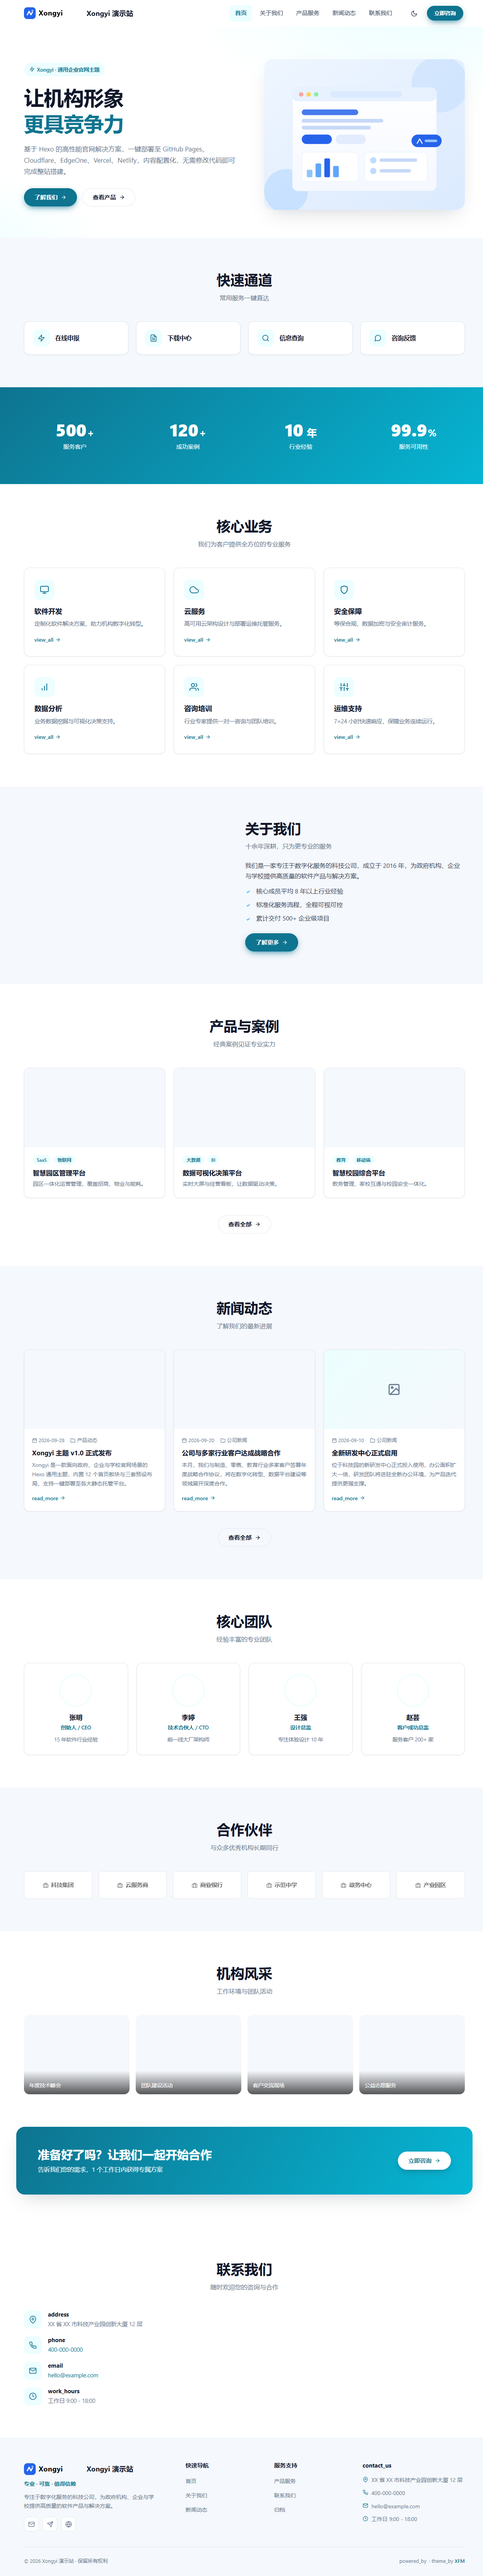
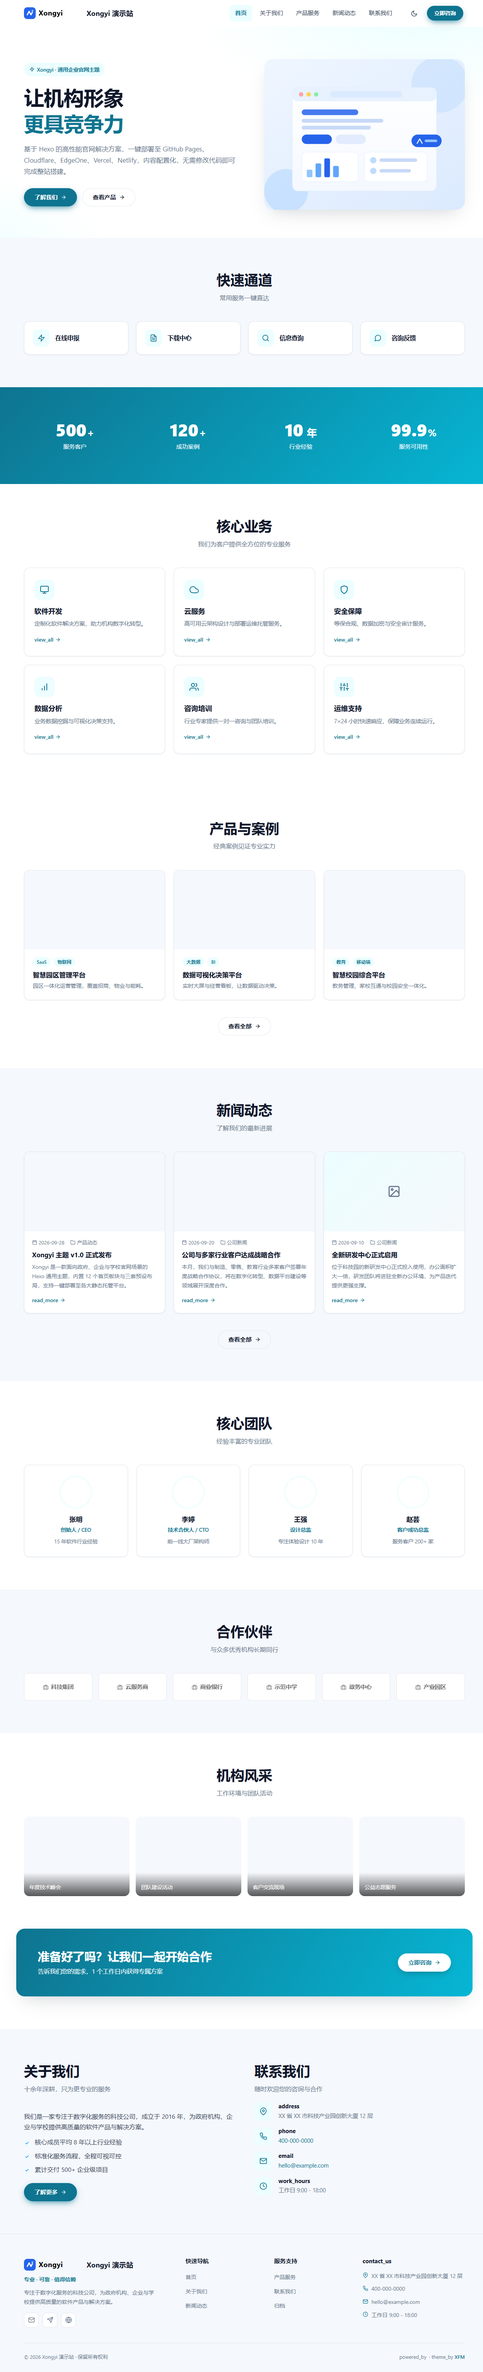
docs: 部署按钮统一形状（Vercel/Cloudflare 同 Netlify 179x32 圆角6）+ 预览图更新

diff --git a/README.md b/README.md
@@ -39,8 +39,8 @@
 | 平台 | 部署按钮 |
 | --- | --- |
 | Netlify | [![Deploy to Netlify](https://www.netlify.com/img/deploy/button.svg)](https://app.netlify.com/start/deploy?repository=https://github.com/xfm0797/hexo-theme-xongyi) |
-| Vercel | [Deploy to Vercel](https://vercel.com/new/clone?repository-url=https%3A%2F%2Fgithub.com%2Fxfm0797%2Fhexo-theme-xongyi) |
-| Cloudflare | [Deploy to Cloudflare](https://deploy.workers.cloudflare.com/?url=https://github.com/xfm0797/hexo-theme-xongyi) |
+| Vercel | [![Deploy to Vercel](docs/buttons/deploy-vercel.svg)](https://vercel.com/new/clone?repository-url=https%3A%2F%2Fgithub.com%2Fxfm0797%2Fhexo-theme-xongyi) |
+| Cloudflare | [![Deploy to Cloudflare](docs/buttons/deploy-cloudflare.svg)](https://deploy.workers.cloudflare.com/?url=https://github.com/xfm0797/hexo-theme-xongyi) |
 
 > **GitHub Pages**：仓库自带 `.github/workflows/pages.yml`，push 到 `main` 即自动构建发布（需在仓库 Settings → Pages 中将 Source 设为 **GitHub Actions**）。
 >
@@ -81,18 +81,19 @@ preset: education    # 教育（学院青）
 
 ```yaml
 sections:
-  - hero        # 首屏横幅
-  - quicklinks  # 快捷入口（政务/校园常用）
-  - stats       # 数据统计（数字滚动动画）
-  - services    # 核心业务
-  - about       # 关于我们
-  - products    # 产品与案例
-  - news        # 新闻动态（自动取最新文章）
-  - team        # 团队 / 名师风采
-  - partners    # 合作伙伴
-  - gallery     # 风采图库
-  - cta         # 行动号召条
-  - contact     # 联系我们
+  - hero            # 首屏横幅
+  - quicklinks      # 快捷入口（政务/校园常用）
+  - stats           # 数据统计（数字滚动动画）
+  - services        # 核心业务
+  - about           # 关于我们
+  - products        # 产品与案例
+  - news            # 新闻动态（自动取最新文章）
+  - team            # 团队 / 名师风采
+  - partners        # 合作伙伴
+  - gallery         # 风采图库
+  - cta             # 行动号召条
+  - contact         # 联系我们
+  - about-contact   # 关于我们 + 联系我们 左右合排（一屏收尾）
 ```
 
 删除任意一行即隐藏该板块；调整顺序即调整首页结构。每个板块的数据（标题、副标题、条目、图标、链接）都在 `_config.yml` 对应节点下配置。
